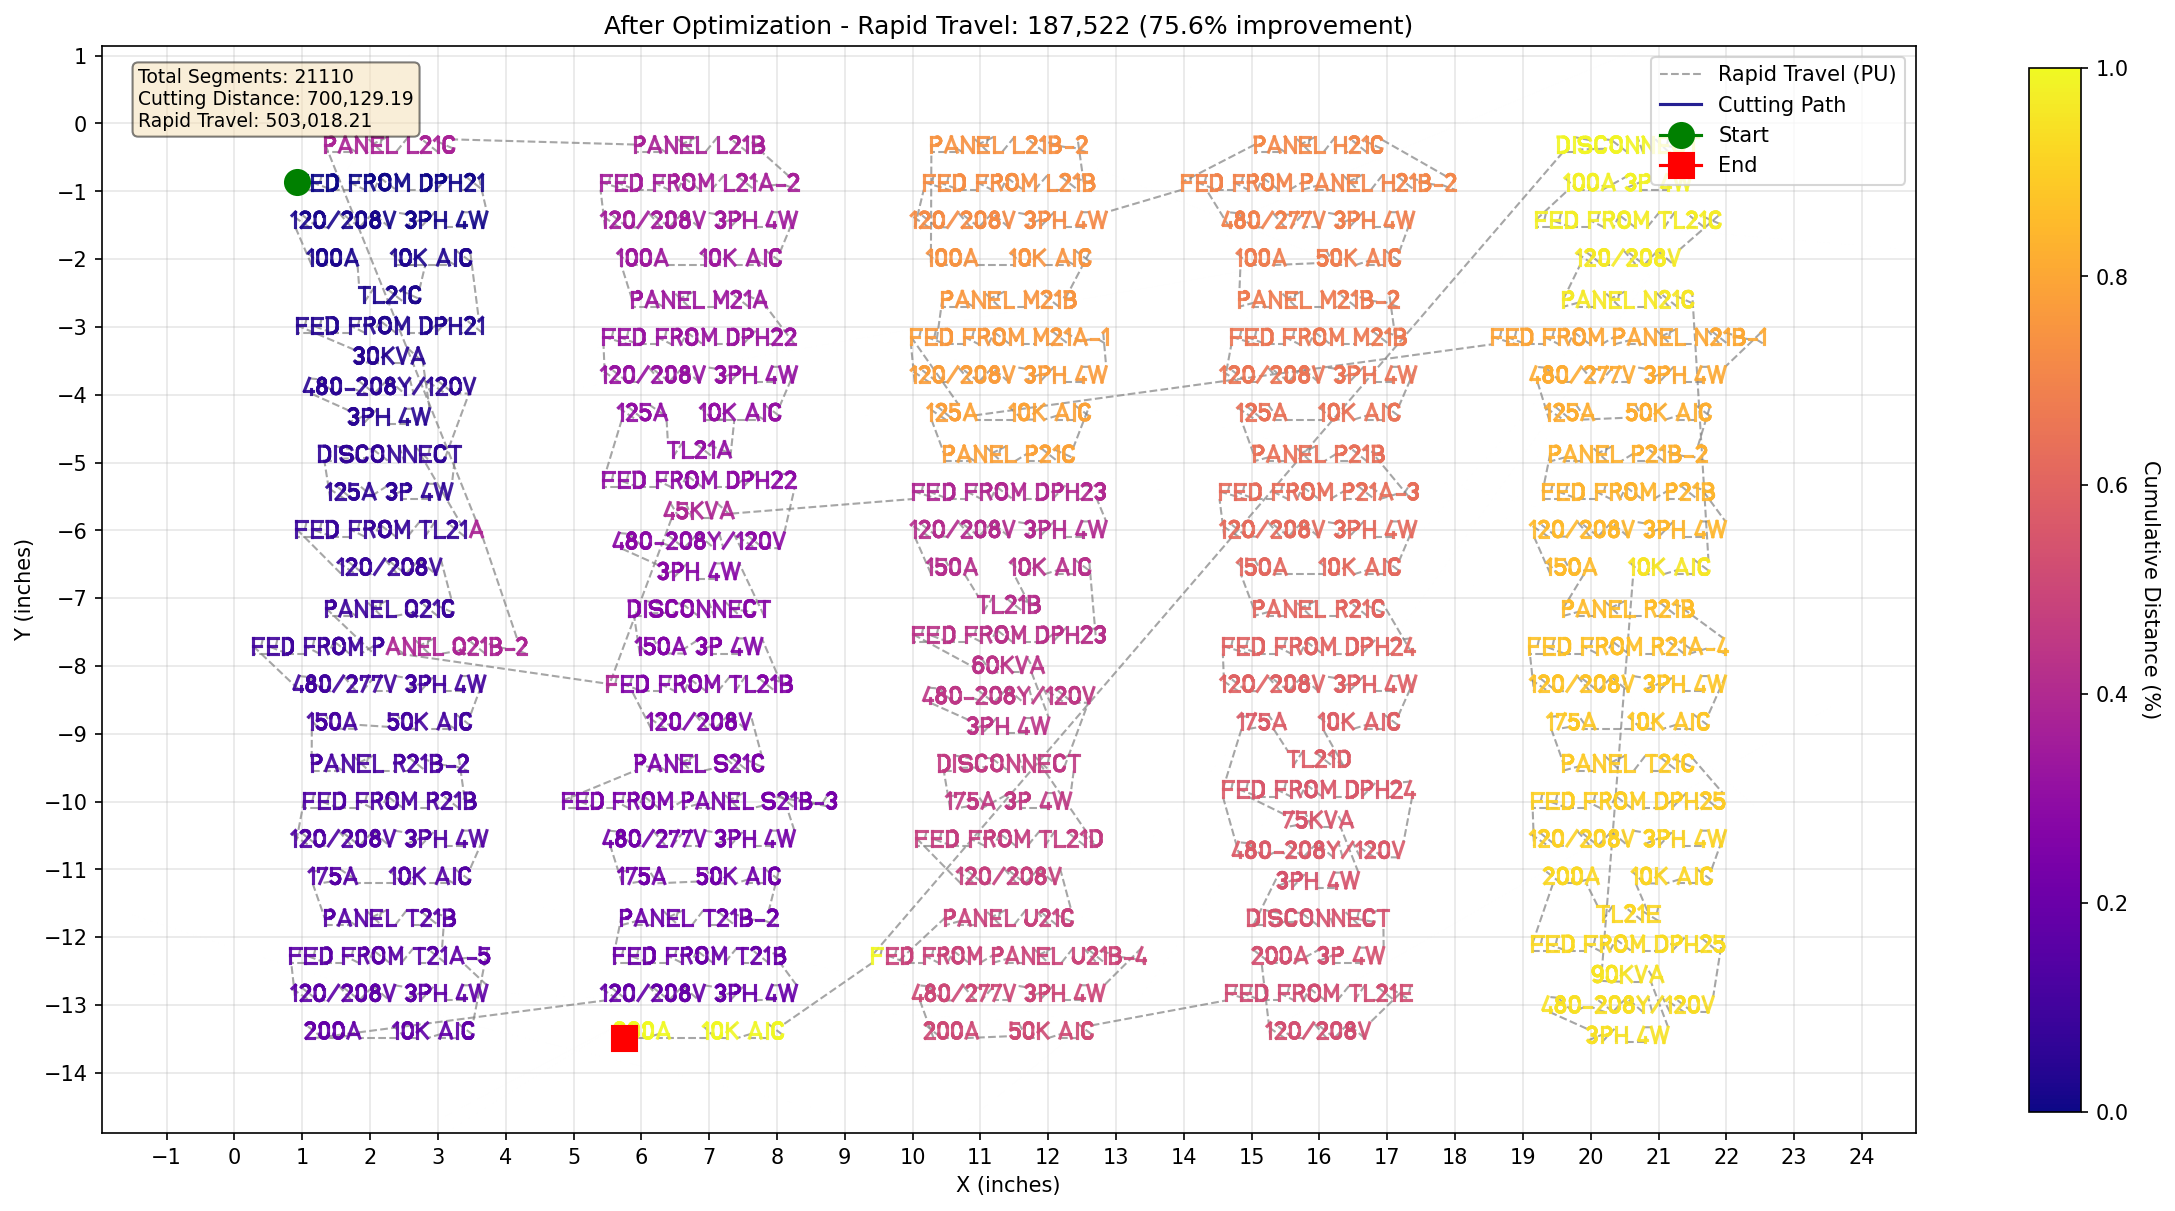
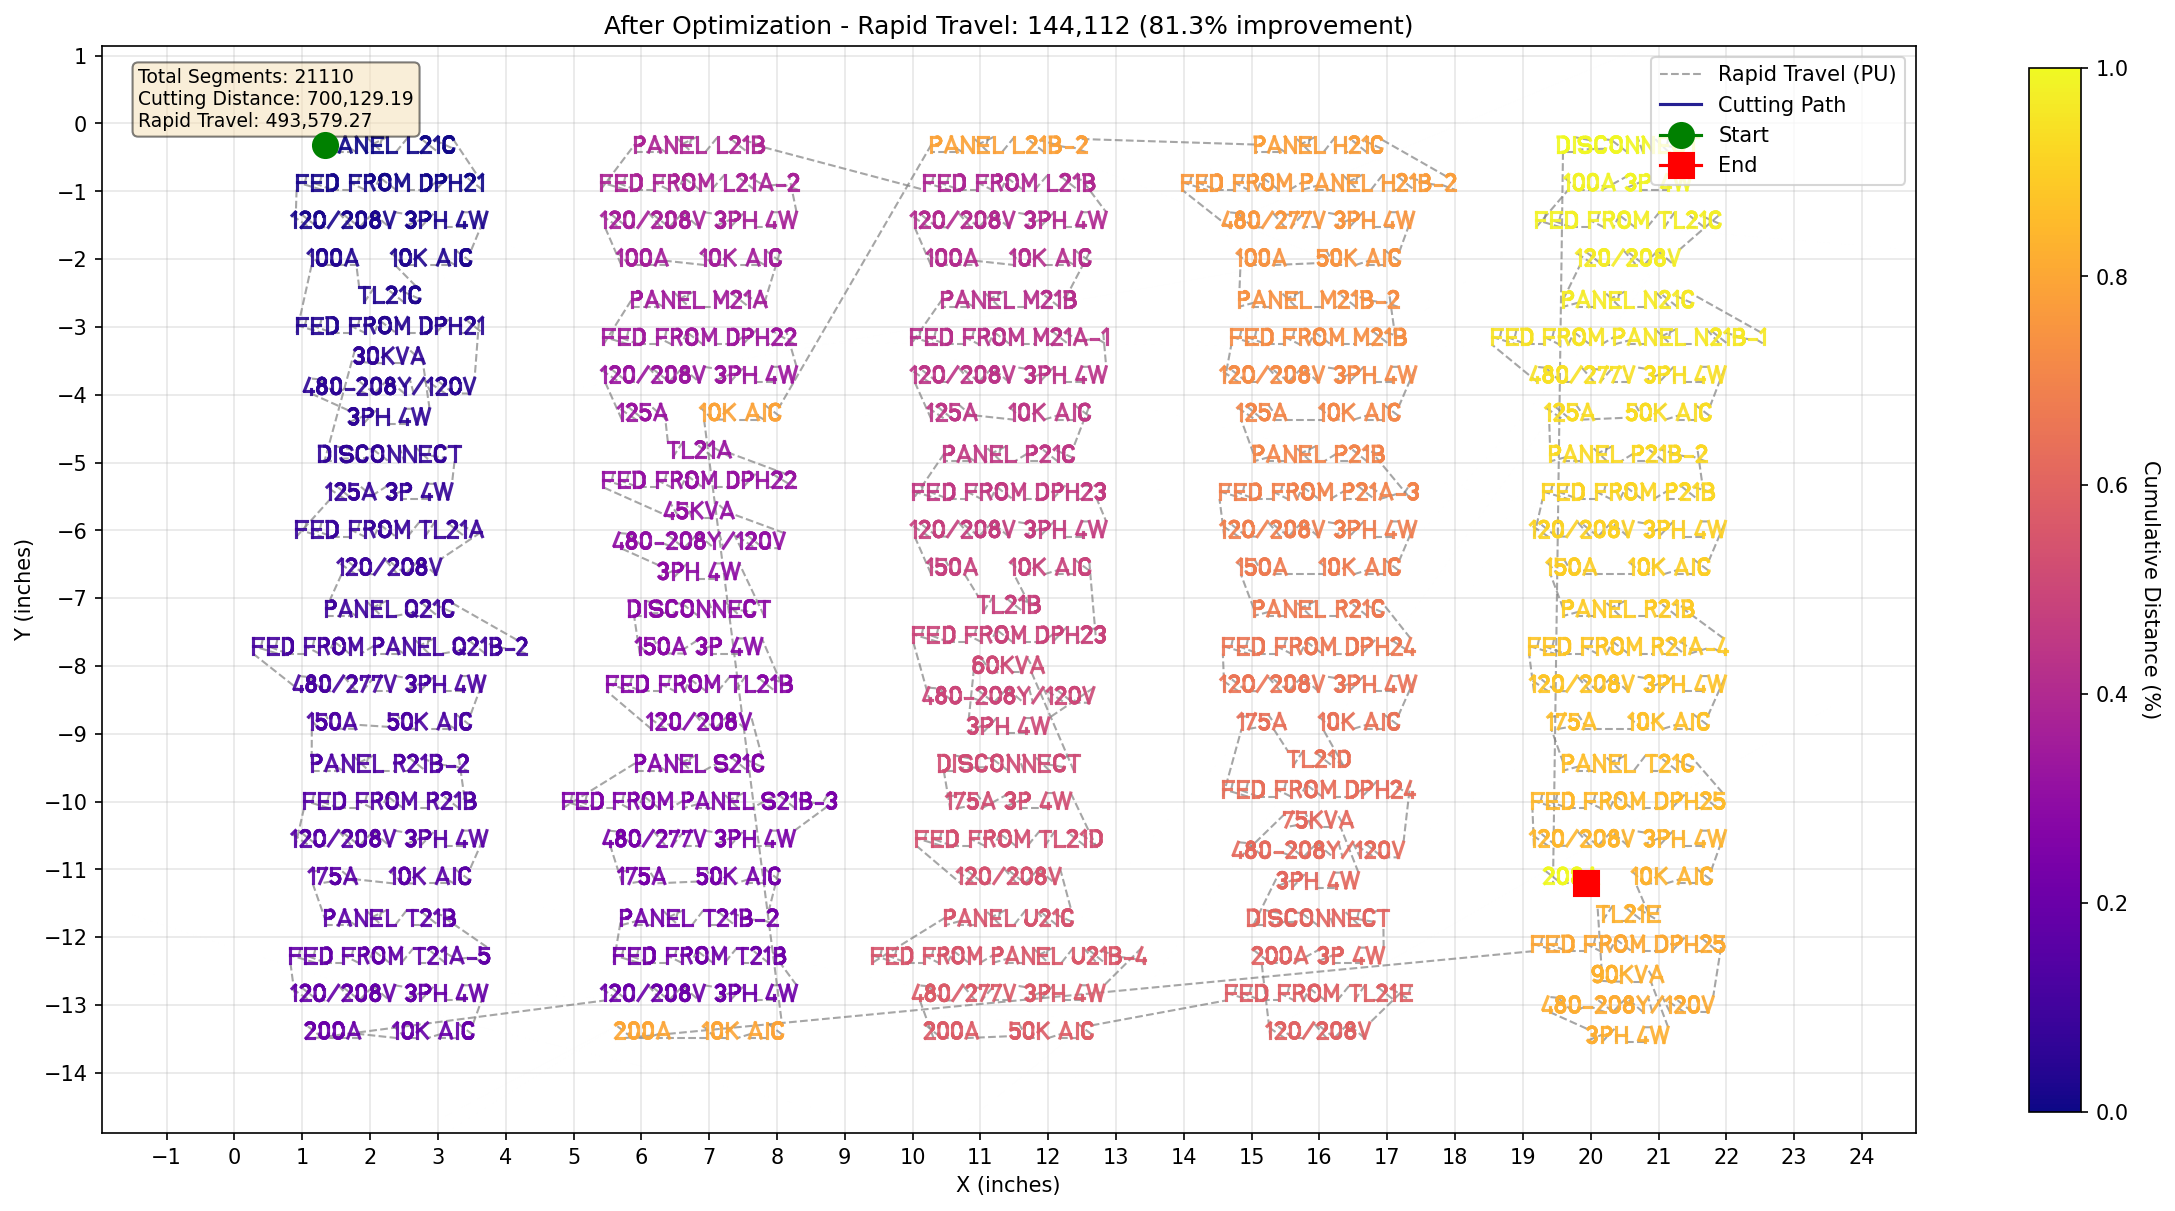
Improve optimization by checking solutions from a number of starting candidate points

diff --git a/plt_optimizer/core/optimizer.py b/plt_optimizer/core/optimizer.py
@@ -299,7 +299,13 @@ class NearestNeighbor2OptStrategy(OptimizationStrategy):
 
     The 2-opt algorithm iteratively reverses segments of the tour when doing so
     reduces total distance, effectively eliminating crossing paths.
+
+    When no initial position is specified, this strategy evaluates multiple candidate
+    starting points (the N closest endpoints to origin) and selects the one that
+    yields the minimum total travel distance.
     """
+
+    DEFAULT_N_CANDIDATES: int = 3
 
     @property
     def name(self) -> str:
@@ -312,6 +318,10 @@ class NearestNeighbor2OptStrategy(OptimizationStrategy):
         initial_position: Optional[Tuple[float, float]] = None,
     ) -> OptimizationResult:
         """Optimize using nearest neighbor greedy algorithm with 2-opt refinement.
+
+        When no initial_position is specified, this method evaluates multiple
+        candidate starting points (the N closest endpoints to origin) and selects
+        the one that yields minimum total travel distance.
 
         Args:
             blocks: List of MacroBlocks to optimize.
@@ -332,32 +342,53 @@ class NearestNeighbor2OptStrategy(OptimizationStrategy):
 
         # Determine starting position - find endpoint closest to origin if not specified
         if initial_position is None:
-            start_pos, first_block_idx, start_at_exit = self._find_nearest_origin_endpoint(
-                blocks, origin=(0.0, 0.0)
+            candidates = self._find_nearest_origin_endpoints(
+                blocks, origin=(0.0, 0.0), n_candidates=self.DEFAULT_N_CANDIDATES
             )
-            # Phase 1: Greedy nearest neighbor construction with forced first block
-            tour = self._greedy_nearest_neighbor_from_start(
-                blocks, start_pos, forced_first_block=first_block_idx,
-                forced_first_reversed=start_at_exit
-            )
+            self._logger.debug(f"Evaluating {len(candidates)} starting candidates")
+
+            best_result: Optional[OptimizationResult] = None
+
+            for start_pos, first_block_idx, start_at_exit, _dist in candidates:
+                tour = self._greedy_nearest_neighbor_from_start(
+                    blocks, start_pos, forced_first_block=first_block_idx,
+                    forced_first_reversed=start_at_exit
+                )
+
+                if len(tour) > 3:
+                    tour = self._two_opt_refinement(tour, blocks)
+
+                connections = self._build_connections(blocks, tour, start_pos)
+                total_distance = sum(c.travel_distance for c in connections if c.source_block_id >= 0)
+
+                candidate_result = OptimizationResult(
+                    traverse_order=tuple(tour),
+                    connections=connections,
+                    total_travel_distance=total_distance,
+                    initial_position=start_pos,
+                )
+
+                if best_result is None or candidate_result.total_travel_distance < best_result.total_travel_distance:
+                    best_result = candidate_result
+                    self._logger.debug(f"New best: distance={candidate_result.total_travel_distance:.3f} from candidate at {start_pos}")
+
+            return best_result  # type: ignore[return-value]
         else:
             start_pos = initial_position
-            # Phase 1: Greedy nearest neighbor construction
             tour = self._greedy_nearest_neighbor(blocks, start_pos)
 
-        # Phase 2: 2-opt refinement
-        if len(tour) > 3:
-            tour = self._two_opt_refinement(tour, blocks)
+            if len(tour) > 3:
+                tour = self._two_opt_refinement(tour, blocks)
 
-        connections = self._build_connections(blocks, tour, start_pos)
-        total_distance = sum(c.travel_distance for c in connections if c.source_block_id >= 0)
+            connections = self._build_connections(blocks, tour, start_pos)
+            total_distance = sum(c.travel_distance for c in connections if c.source_block_id >= 0)
 
-        return OptimizationResult(
-            traverse_order=tuple(tour),
-            connections=connections,
-            total_travel_distance=total_distance,
-            initial_position=start_pos,
-        )
+            return OptimizationResult(
+                traverse_order=tuple(tour),
+                connections=connections,
+                total_travel_distance=total_distance,
+                initial_position=start_pos,
+            )
 
     def _greedy_nearest_neighbor(
         self,
@@ -419,6 +450,47 @@ class NearestNeighbor2OptStrategy(OptimizationStrategy):
 
         return tour
 
+    def _find_nearest_origin_endpoints(
+        self,
+        blocks: List[MacroBlock],
+        origin: Tuple[float, float] = (0.0, 0.0),
+        n_candidates: int = 5,
+    ) -> List[Tuple[Tuple[float, float], int, bool, float]]:
+        """Find the N block endpoints nearest to the origin.
+
+        This ensures the optimization evaluates multiple starting candidates
+        when there are ties or near-ties for closest endpoint to origin.
+
+        Args:
+            blocks: List of MacroBlocks to search.
+            origin: Reference point for distance calculation (default origin).
+            n_candidates: Number of closest endpoints to return.
+
+        Returns:
+            List of tuples sorted by distance: [(position, block_index, is_exit, distance), ...].
+            - position: (x, y) coordinates of the endpoint
+            - block_index: index of the block containing this endpoint
+            - is_exit: True if endpoint is block's exit (needs reversal)
+            - distance: Euclidean distance from origin
+        """
+        candidates: List[Tuple[float, Tuple[Tuple[float, float], int, bool]]] = []
+
+        for i, block in enumerate(blocks):
+            dist_entrance = math.sqrt(
+                (block.entrance.x - origin[0]) ** 2
+                + (block.entrance.y - origin[1]) ** 2
+            )
+            candidates.append((dist_entrance, ((block.entrance.x, block.entrance.y), i, False)))
+
+            dist_exit = math.sqrt(
+                (block.exit.x - origin[0]) ** 2
+                + (block.exit.y - origin[1]) ** 2
+            )
+            candidates.append((dist_exit, ((block.exit.x, block.exit.y), i, True)))
+
+        candidates.sort(key=lambda x: x[0])
+        return [(pos, idx, is_exit, dist) for dist, (pos, idx, is_exit) in candidates[:n_candidates]]
+
     def _find_nearest_origin_endpoint(
         self,
         blocks: List[MacroBlock],
@@ -439,35 +511,9 @@ class NearestNeighbor2OptStrategy(OptimizationStrategy):
             - block_index: index of the block containing this endpoint
             - is_exit: True if nearest position is block's exit (needs reversal)
         """
-        min_distance = float('inf')
-        nearest_pos: Tuple[float, float] = (0.0, 0.0)
-        best_block_idx = 0
-        best_is_exit = False
-
-        for i, block in enumerate(blocks):
-            # Check entrance
-            dist_entrance = math.sqrt(
-                (block.entrance.x - origin[0]) ** 2
-                + (block.entrance.y - origin[1]) ** 2
-            )
-            if dist_entrance < min_distance:
-                min_distance = dist_entrance
-                nearest_pos = (block.entrance.x, block.entrance.y)
-                best_block_idx = i
-                best_is_exit = False
-
-            # Check exit
-            dist_exit = math.sqrt(
-                (block.exit.x - origin[0]) ** 2
-                + (block.exit.y - origin[1]) ** 2
-            )
-            if dist_exit < min_distance:
-                min_distance = dist_exit
-                nearest_pos = (block.exit.x, block.exit.y)
-                best_block_idx = i
-                best_is_exit = True
-
-        return (nearest_pos, best_block_idx, best_is_exit)
+        candidates = self._find_nearest_origin_endpoints(blocks, origin, n_candidates=1)
+        pos, idx, is_exit, _ = candidates[0]
+        return (pos, idx, is_exit)
 
     def _greedy_nearest_neighbor_from_start(
         self,

diff --git a/examples/run_diagnostics.py b/examples/run_diagnostics.py
@@ -388,7 +388,7 @@ def demonstrate_optimization_pipeline(doc: PLTDocument, output_prefix: str = "op
 
     # Step 2: Chunk - Group strokes into MacroBlocks
     text_logger.info("Step 2/4: Chunking stroke paths into MacroBlocks")
-    chunker = Chunker(config=ChunkerConfig(threshold_multiplier=1.5))
+    chunker = Chunker(config=ChunkerConfig(threshold_multiplier=2.0))
     blocks = chunker.chunk(doc.stroke_paths, profile_result.baseline_extent)
 
     print(f"\n  Chunker results:")